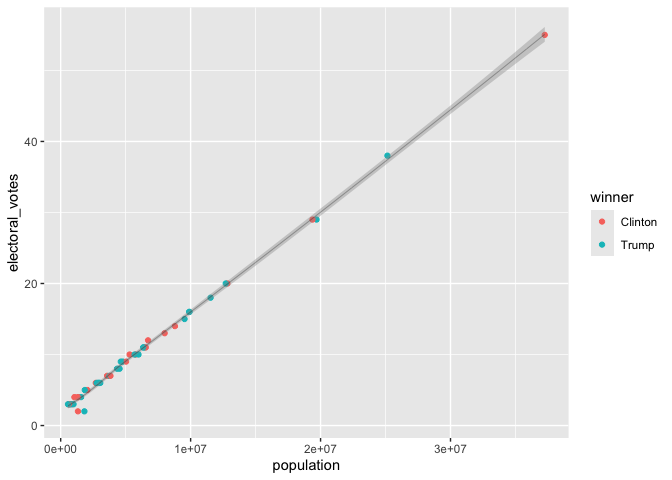
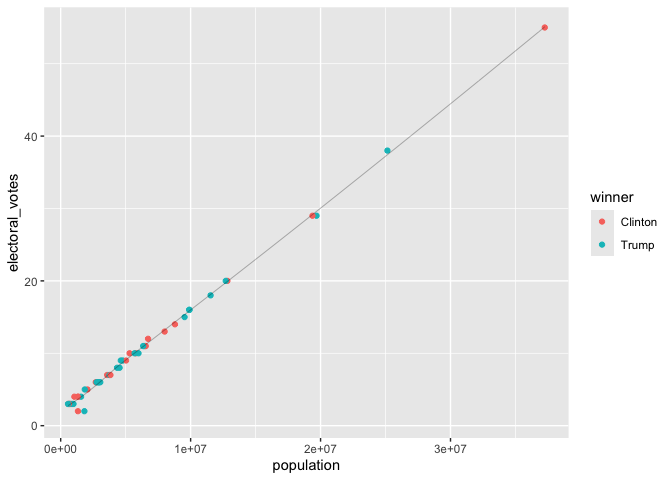
update

diff --git a/problem_sets/assignment_7.md b/problem_sets/assignment_7.md
@@ -94,7 +94,7 @@ size to 0.1, and turn off its confidence interval.
 q_1b |>
   ggplot(mapping = aes(population, electoral_votes, color = winner)) +
   geom_point() +
-  geom_smooth(colour = "black", size = 0.1)
+  geom_smooth(colour = "black", size = 0.1, se = FALSE)
 ```
 
 ![](assignment_7_files/figure-commonmark/unnamed-chunk-4-1.png)
@@ -105,9 +105,40 @@ q_1b |>
 `population` and `electoral_votes` columns are turned into rows as shown
 below. Name this new dataset `q_2a`, and show its first 6 rows.
 
+``` r
+q_2a <- q_1b |> 
+  pivot_longer(cols = c("population", "electoral_votes"), names_to = "metric", values_to = "value")
+head(q_2a, 6)
+```
+
+    # A tibble: 6 × 10
+      state   clinton trump johnson stein mcmullin others winner metric        value
+      <chr>     <dbl> <dbl>   <dbl> <dbl>    <dbl>  <dbl> <chr>  <chr>         <dbl>
+    1 Alabama    34.4  62.1    2.09 0.442    0       1.02 Trump  population   4.78e6
+    2 Alabama    34.4  62.1    2.09 0.442    0       1.02 Trump  electoral_v… 9   e0
+    3 Alaska     36.6  51.3    5.88 1.80     0       4.49 Trump  population   7.10e5
+    4 Alaska     36.6  51.3    5.88 1.80     0       4.49 Trump  electoral_v… 3   e0
+    5 Arizona    44.6  48.1    4.08 1.32     0.670   1.27 Trump  population   6.39e6
+    6 Arizona    44.6  48.1    4.08 1.32     0.670   1.27 Trump  electoral_v… 1.1 e1
+
 **2b.** Then, sum up the number of electoral votes and population size
 across all states for each candidate. Name this new dataset `q_2b`, and
 print it as shown below.
+
+``` r
+q_2b <- q_2a |>
+  group_by(metric, winner) |>
+  summarize(value = sum(value, na.rm = TRUE), .groups = "drop")
+head(q_2b, 6)
+```
+
+    # A tibble: 4 × 3
+      metric          winner      value
+      <chr>           <chr>       <dbl>
+    1 electoral_votes Clinton       232
+    2 electoral_votes Trump         306
+    3 population      Clinton 134982448
+    4 population      Trump   174881780
 
 **2c.** Use the `q_2b` dataset to contruct a bar plot to show the final
 electoral vote share under the scenarios of **1)** each state has the
@@ -116,7 +147,28 @@ has the number of electoral votes that is exactly proportional to its
 population size. Here, assume that for each state, the winner will take
 all its electoral votes.
 
-*Hint: `geom_col(position = "fill")` might be helpful.*
+``` r
+q_2b |>
+  group_by(metric) |>
+  mutate(value = (value - min(value)) / (max(value) - min(value))) |>
+  ungroup()
+```
+
+    # A tibble: 4 × 3
+      metric          winner  value
+      <chr>           <chr>   <dbl>
+    1 electoral_votes Clinton     0
+    2 electoral_votes Trump       1
+    3 population      Clinton     0
+    4 population      Trump       1
+
+``` r
+q_2b |>
+  ggplot(aes(x = metric, y = value, fill = winner)) +
+  geom_col(position = "fill")
+```
+
+![](assignment_7_files/figure-commonmark/unnamed-chunk-7-1.png)
 
 ### **Question 3. What if the election was determined by popular votes?**
 
@@ -131,8 +183,54 @@ single `others` category (as shown in the table below)*
 
 *Hint: `pivot_longer()` may be useful in here.*
 
+``` r
+data <- read.csv("https://raw.githubusercontent.com/kshaffer/election2016/master/2016ElectionResultsByState.csv")
+q_3a <- data |>
+  pivot_longer(cols = c(clintonVotes, trumpVotes, othersVotes),
+               names_to = "winner",
+               values_to = "value") |>
+  mutate(winner = case_when(
+    winner == "clintonVotes" ~ "Clinton",
+    winner == "trumpVotes" ~ "Trump",
+    winner == "othersVotes" ~ "Others"
+  )) |>
+  group_by(winner) |>
+  summarize(value = sum(value, na.rm = TRUE), .groups = "drop") |>
+  mutate(metric = "popular_votes") |>
+  select(metric, winner, value)
+head(q_3a)
+```
+
+    # A tibble: 3 × 3
+      metric        winner     value
+      <chr>         <chr>      <int>
+    1 popular_votes Clinton 65125640
+    2 popular_votes Others    541623
+    3 popular_votes Trump   62616675
+
 **3b.** Combine the `q_2b` dataset with the `q_3a` dataset. Call this
 new dataset `q_3b`, and print it as shown below.
+
+``` r
+q_3b <- full_join(q_2b, q_3a)
+```
+
+    Joining with `by = join_by(metric, winner, value)`
+
+``` r
+print(q_3b)
+```
+
+    # A tibble: 7 × 3
+      metric          winner      value
+      <chr>           <chr>       <dbl>
+    1 electoral_votes Clinton       232
+    2 electoral_votes Trump         306
+    3 population      Clinton 134982448
+    4 population      Trump   174881780
+    5 popular_votes   Clinton  65125640
+    6 popular_votes   Others     541623
+    7 popular_votes   Trump    62616675
 
 **3c.** Lastly, use the `q_3b` dataset to contruct a bar plot to show
 the final vote share under the scenarios of **1)** each state has the
@@ -140,6 +238,19 @@ number of electoral votes that it currently has, **2)** each state has
 the number of electoral votes that is exactly proportional to its
 population size, and **3)** the election result is determined by the
 popular vote.
+
+``` r
+q_3b <- q_3b |>
+  group_by(metric) |>
+  mutate(value = (value - min(value)) / (max(value) - min(value))) |>
+  ungroup()
+
+q_3b |>
+  ggplot(aes(x = metric, y = value, fill = winner)) +
+  geom_col(position = "fill")
+```
+
+![](assignment_7_files/figure-commonmark/unnamed-chunk-10-1.png)
 
 ### **Question 4. The election result in 2016 came as a huge surprise to many people, especially given that most polls predicted Clinton would win before the election. Where did the polls get wrong?**
 
